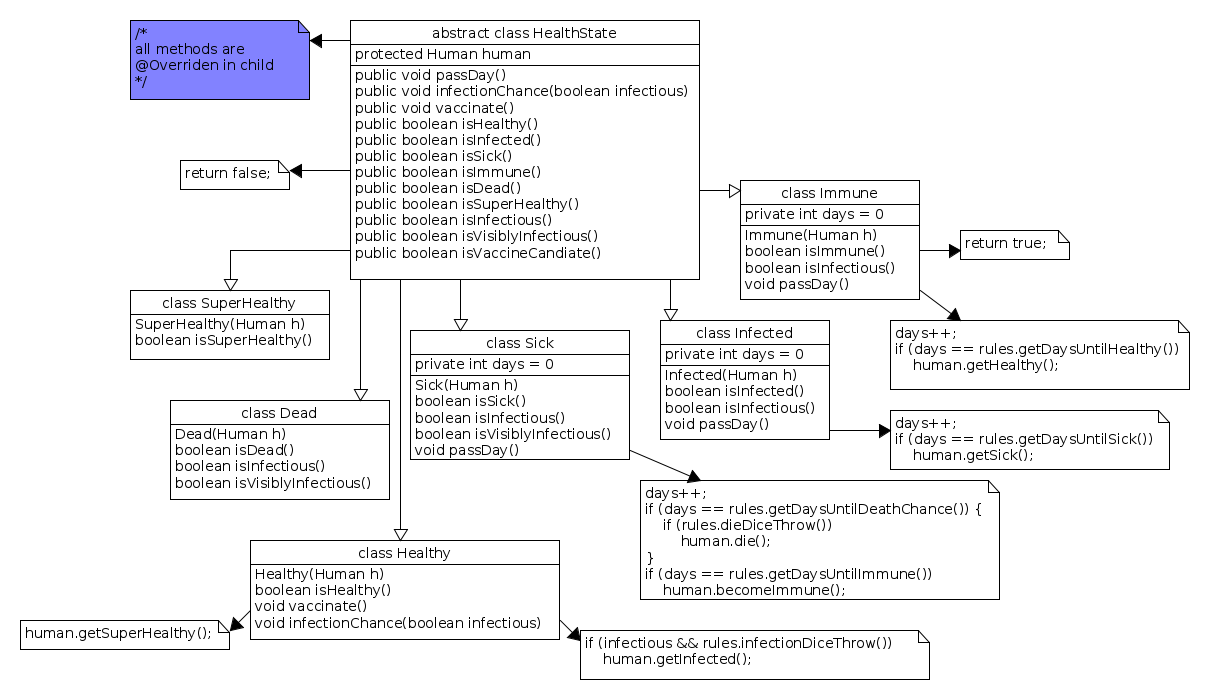
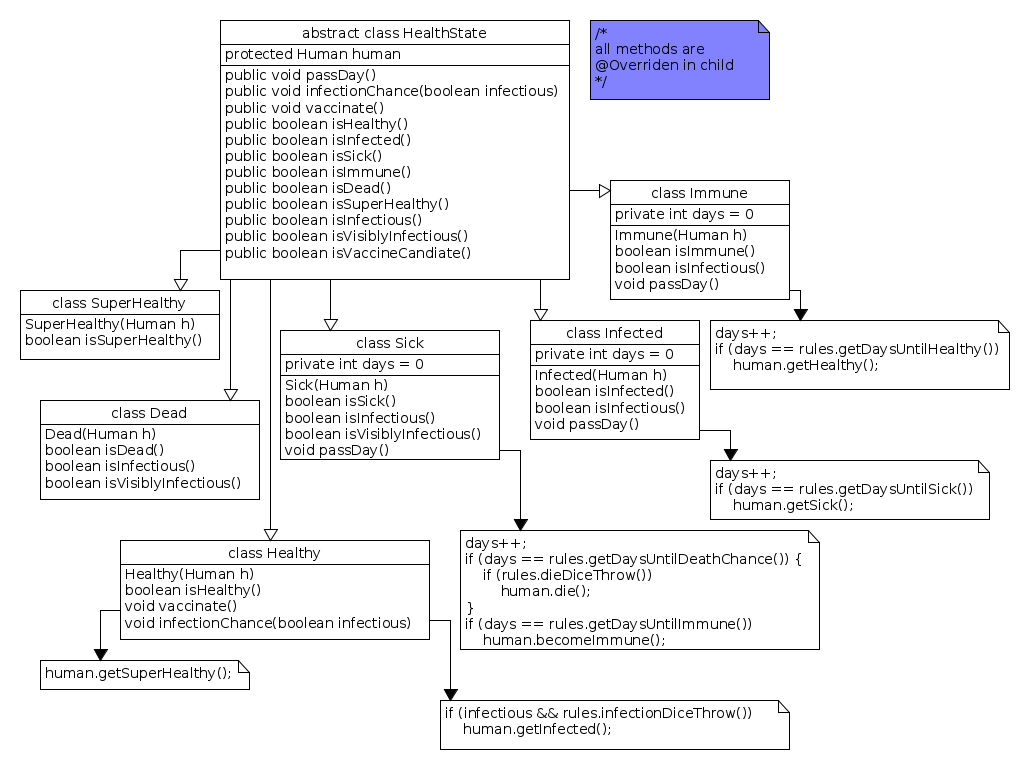
doc: healthstate umls added to readme

Changed region(s): [[0.0, 0.0, 0.9942, 0.99]]

diff --git a/README.md b/README.md
@@ -50,15 +50,21 @@ the whole world.
 
 #Code Documentation
 
-![] (doc/Summary.png)
+* ***MVC pattern*** used to establish interaction in between simulator and user interface.
+* Simulation rules are hard-coded into SimulationRules class, which uses ***Singleton pattern***.
+* On each day, simulator delegates daily operations into Country objects and country objects delegates to Human objects.
+* Human objects delegates health related processes to HealthState objects; where HealthState objects are allowed to change **health** field of Humans -***State pattern***.
 
-TODO: write used patterns
+![] (doc/Summary.png)
 
 ###Contry
 ![] (doc/Country.png)
 
 ###Human
 ![] (doc/Human.png)
+
+###HealthState
+![] (doc/HealthState.png)
 
 ###Simulator
 ![] (doc/Simulator.png)
@@ -71,4 +77,3 @@ TODO: write used patterns
 
 ###SimulationRules
 ![] (doc/SimulationRules.png)
-
